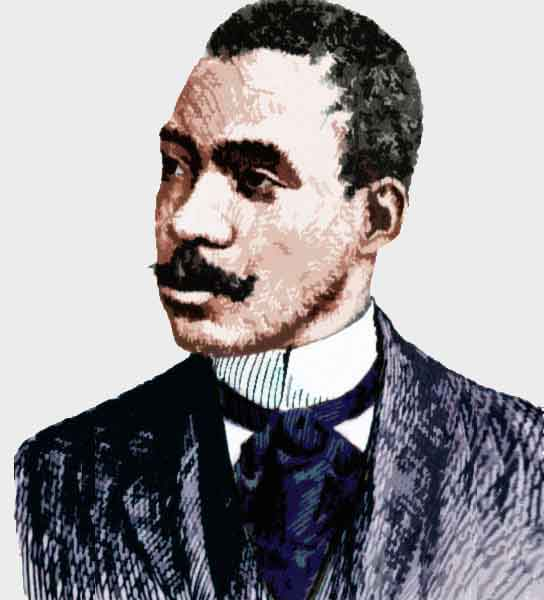
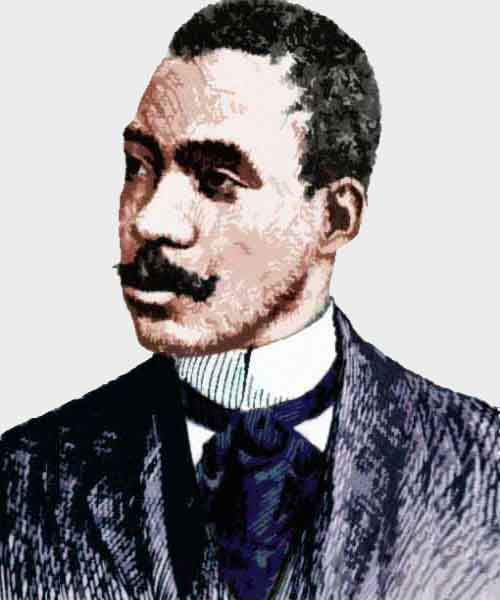
Ajustes

diff --git a/site/css/simbolismo.css b/site/css/simbolismo.css
@@ -1,3 +1,7 @@
+html,body {
+    max-width: 100%;
+    overflow-x: hidden;
+}
 .titulo {
     margin-bottom: 3rem;
 }
@@ -30,9 +34,14 @@ hr {
     margin-top: 30px;
 }
 
+.img {
+    max-width: 100%;
+    /* width: 43px; */
+}
+
 .lateral {
-    padding-right: 15px;
-    padding-left: 15px;
+    padding-right: 0.9em;
+    padding-left: 0.9em;
     margin-right: auto;
     margin-left: auto;
 }

diff --git a/site/simbolismo-autor-destaque.php b/site/simbolismo-autor-destaque.php
@@ -39,7 +39,7 @@
 
 
 
-            <div class="container section">
+            <div class="container-fluid section">
 
                 <div class="row">
                     <h2 class="titulo text-center cor">Autor de Destaque</h2>
@@ -48,8 +48,8 @@
                     <div class="media">
                         <div class="media-left media-middle">
                             
-                            <img class="media-object" src="
-            img/simb/cruz-e-souza.jpg" alt="Autor de Destaque " width="500"  >
+                            <img class="media-object img" src="
+            img/simb/cruz-e-souza.jpg" alt="Autor de Destaque " width="450"  >
            
                         </div>
 
